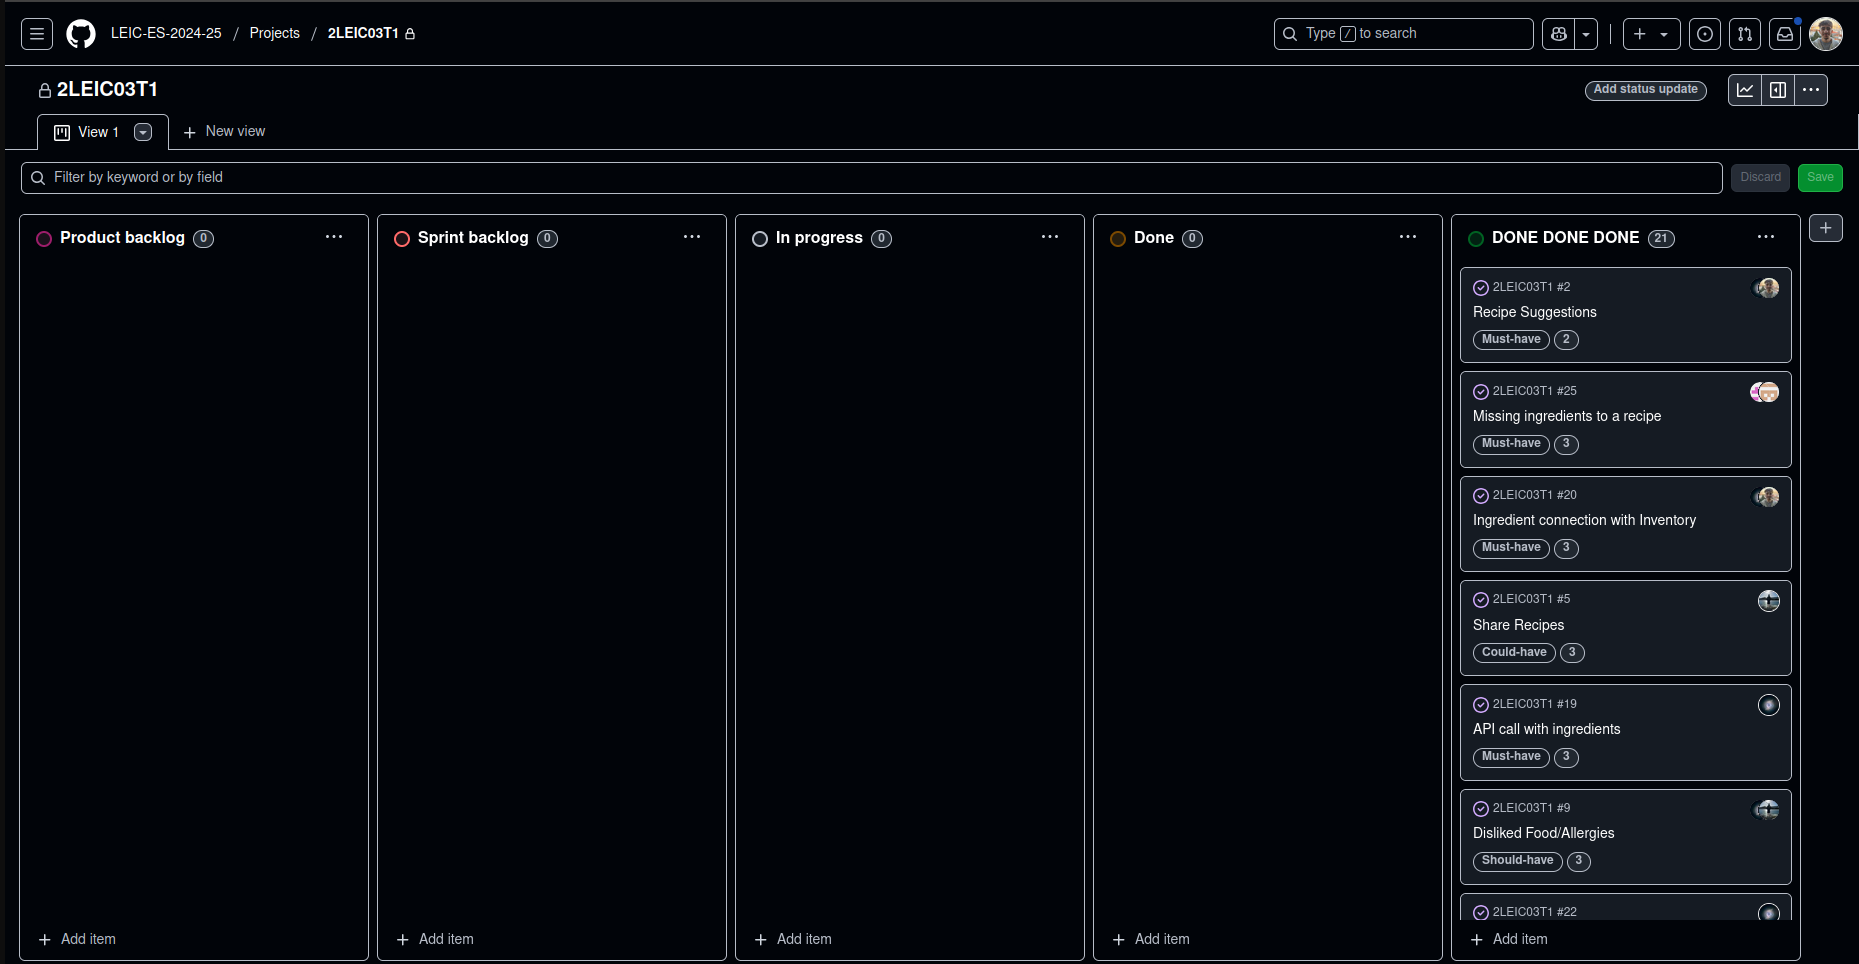
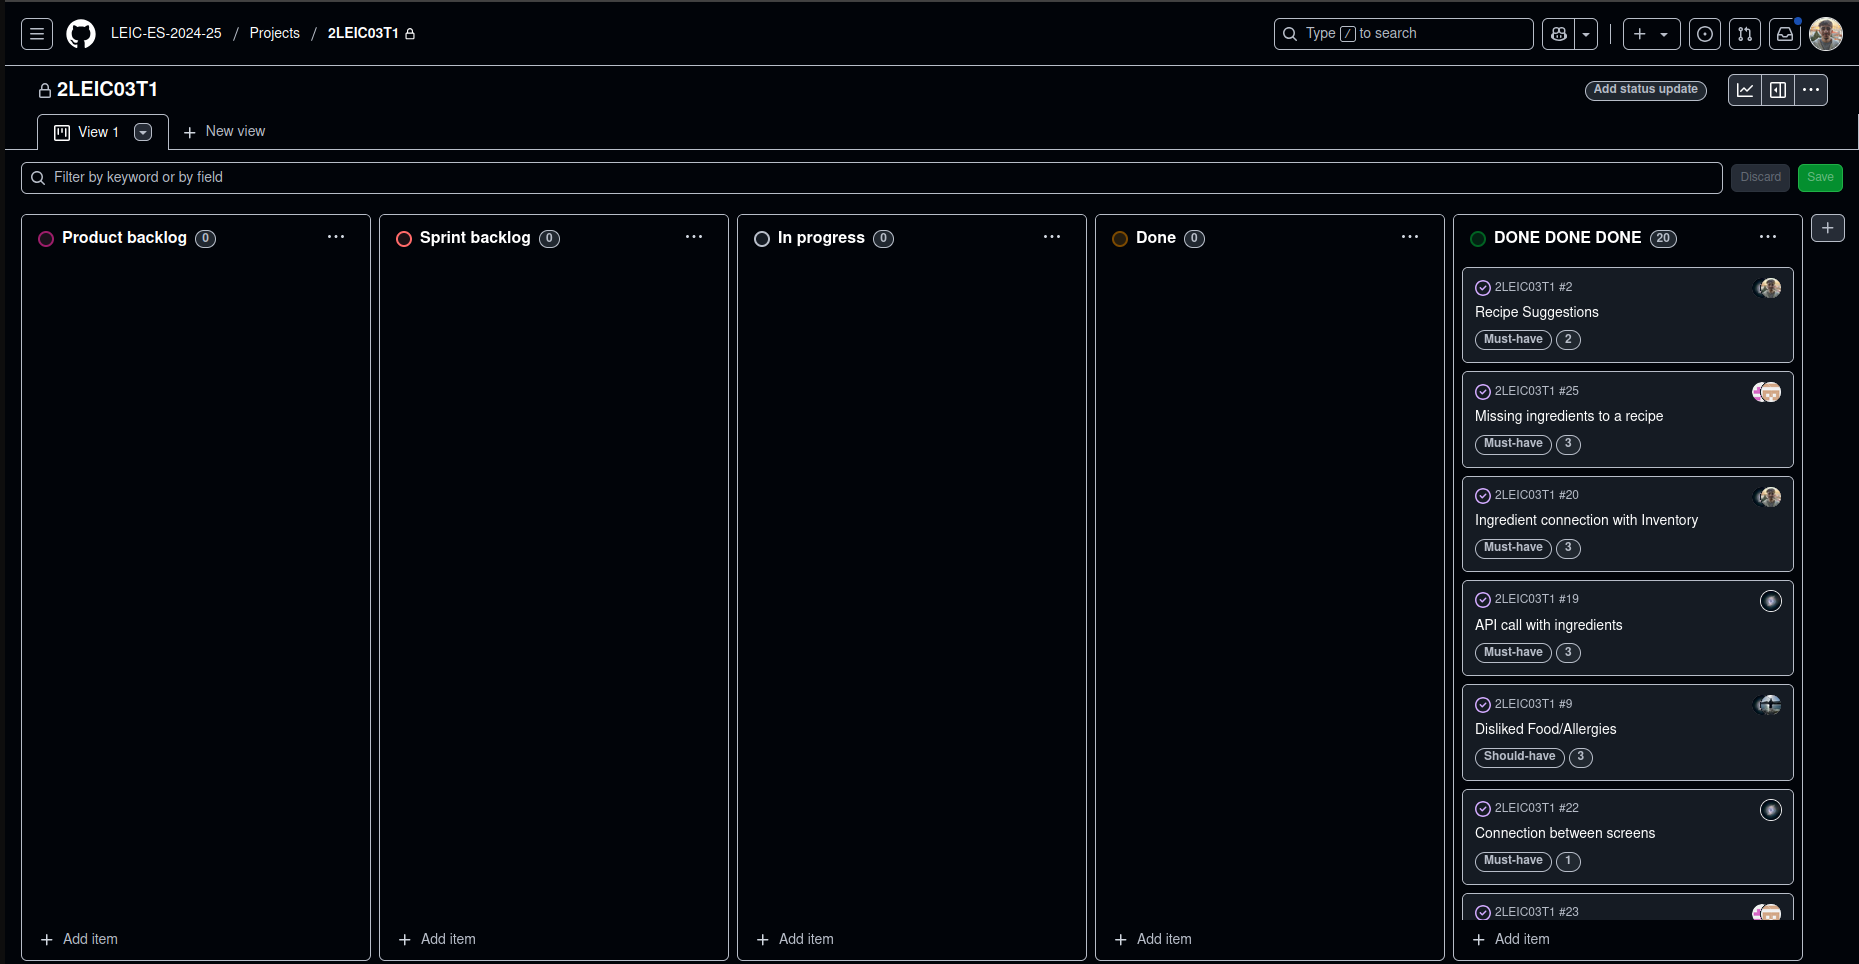
Updated README.md

diff --git a/README.md b/README.md
@@ -321,8 +321,6 @@ Despite completing our original sprint goals, we came out of it wishing we had b
 > ### Board at the Begining of Sprint 2
 <img src="img/Sprint2BoardBeg.png" style="display: block; margin: 0 auto; max-width: 100%; height: auto;"/>
 
-<br>
-
 During Sprint 2, the team focused on delivering several user-focused and structural features. Key progress was made on implementing support for disliked foods and allergies, manual ingredient entry, and navigation between screens. Other completed features included the ingredient scanning functionality, the onboarding/start page, user profile setup, and expiry notifications for stored items—laying important groundwork for the application.
 
 One planned task—connecting ingredients with the inventory system—was scheduled for this sprint but was not achieved within the time frame. This will be carried forward and prioritized in the upcoming sprint.
@@ -339,8 +337,6 @@ As this is the final sprint, the team is focused in finishing every feature that
  ### Board at the Begining of Sprint 3
 <img src="img/Sprint3BoardBeg.png" style="display: block; margin: 0 auto; max-width: 100%; height: auto;"/>
 
-<br>
-
 **What we completed**
 
 - Recipe logic  
@@ -351,12 +347,13 @@ As this is the final sprint, the team is focused in finishing every feature that
 
 - We accomplished everything we planned  
 - Clear and effective task distribution  
-- All initial user stories were successfully completed  
+- All initial user stories apart from the "Share Recipes" were successfully completed  
 - Effective use of pair programming, which boosted group productivity  
 
 **What could have gone better**
 
 - More frequent meetings and better coordination would have helped
+- We were not able to do an user storie due to not having the necessary tools to do that
 
 
 > ### Board at the End of Sprint 3
@@ -366,8 +363,6 @@ As this is the final sprint, the team is focused in finishing every feature that
 
 ### Final Release
 <img src="img/FinalRelease.png" style="display: block; margin: 0 auto; max-width: 100%; height: auto;"/>
-
-<br>
 
 Over the course of the four sprints, the team showed consistent growth both technically and organizationally. We started with a basic structure and gradually developed more complex features, such as food scanning, user profile management, expiry notifications, and personalized recipe suggestions.
 
